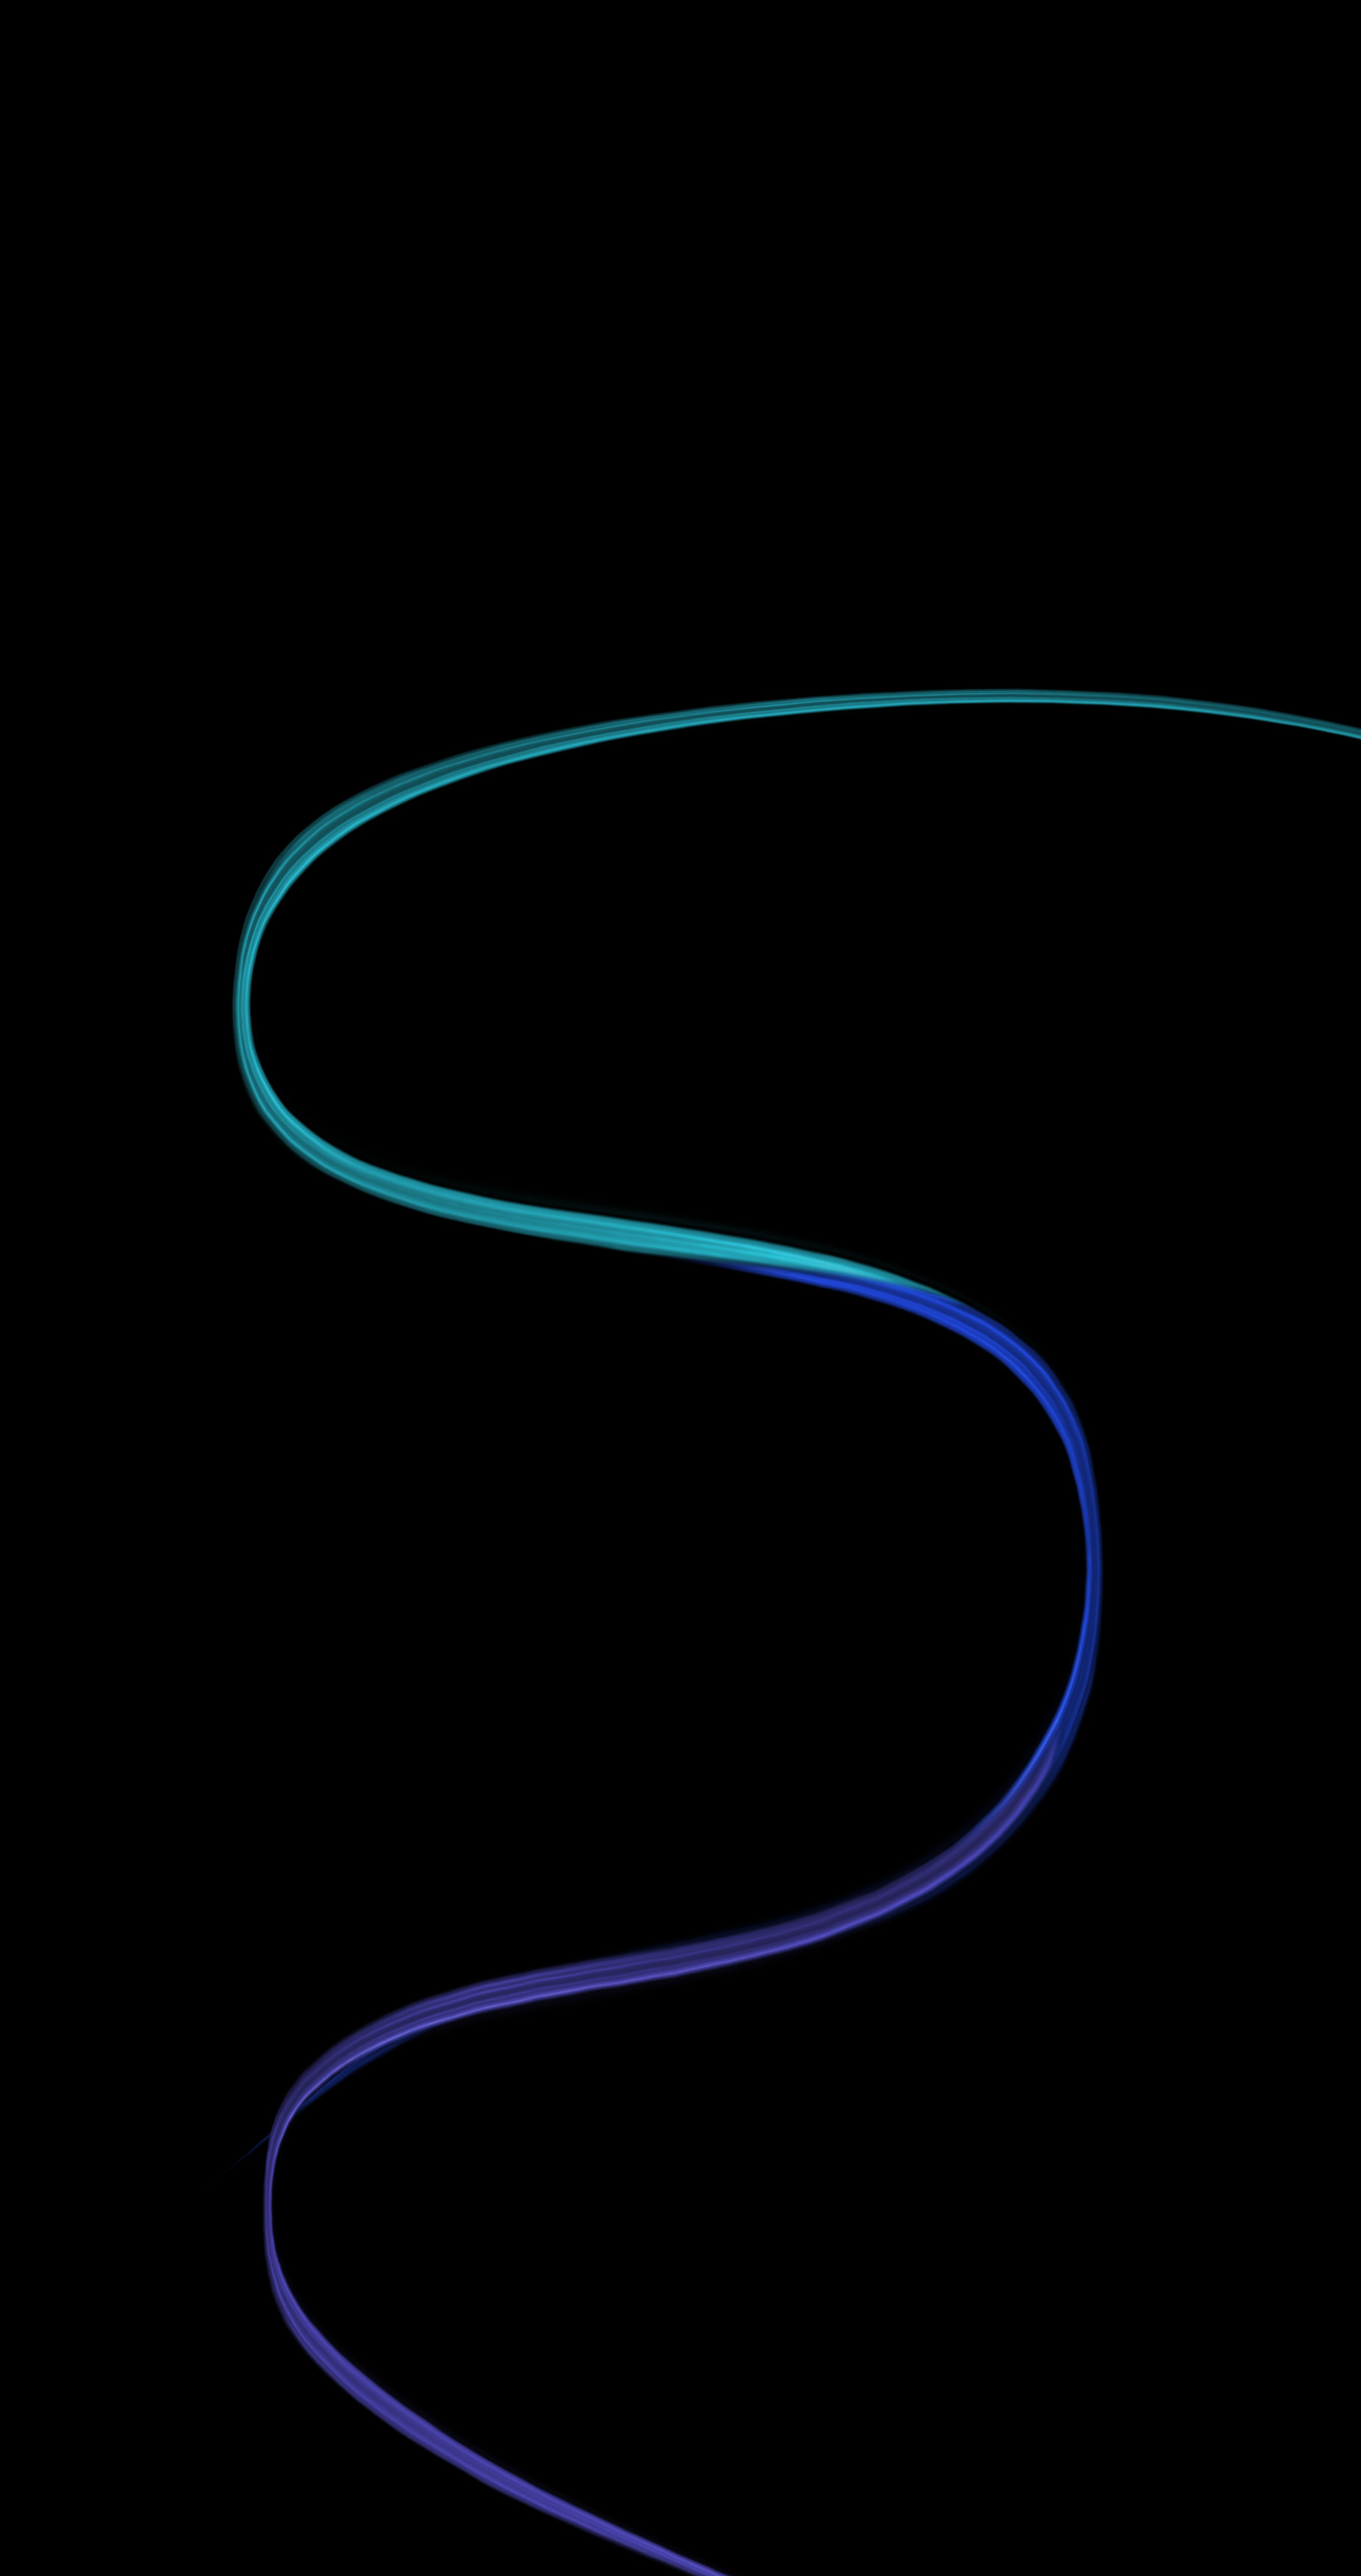
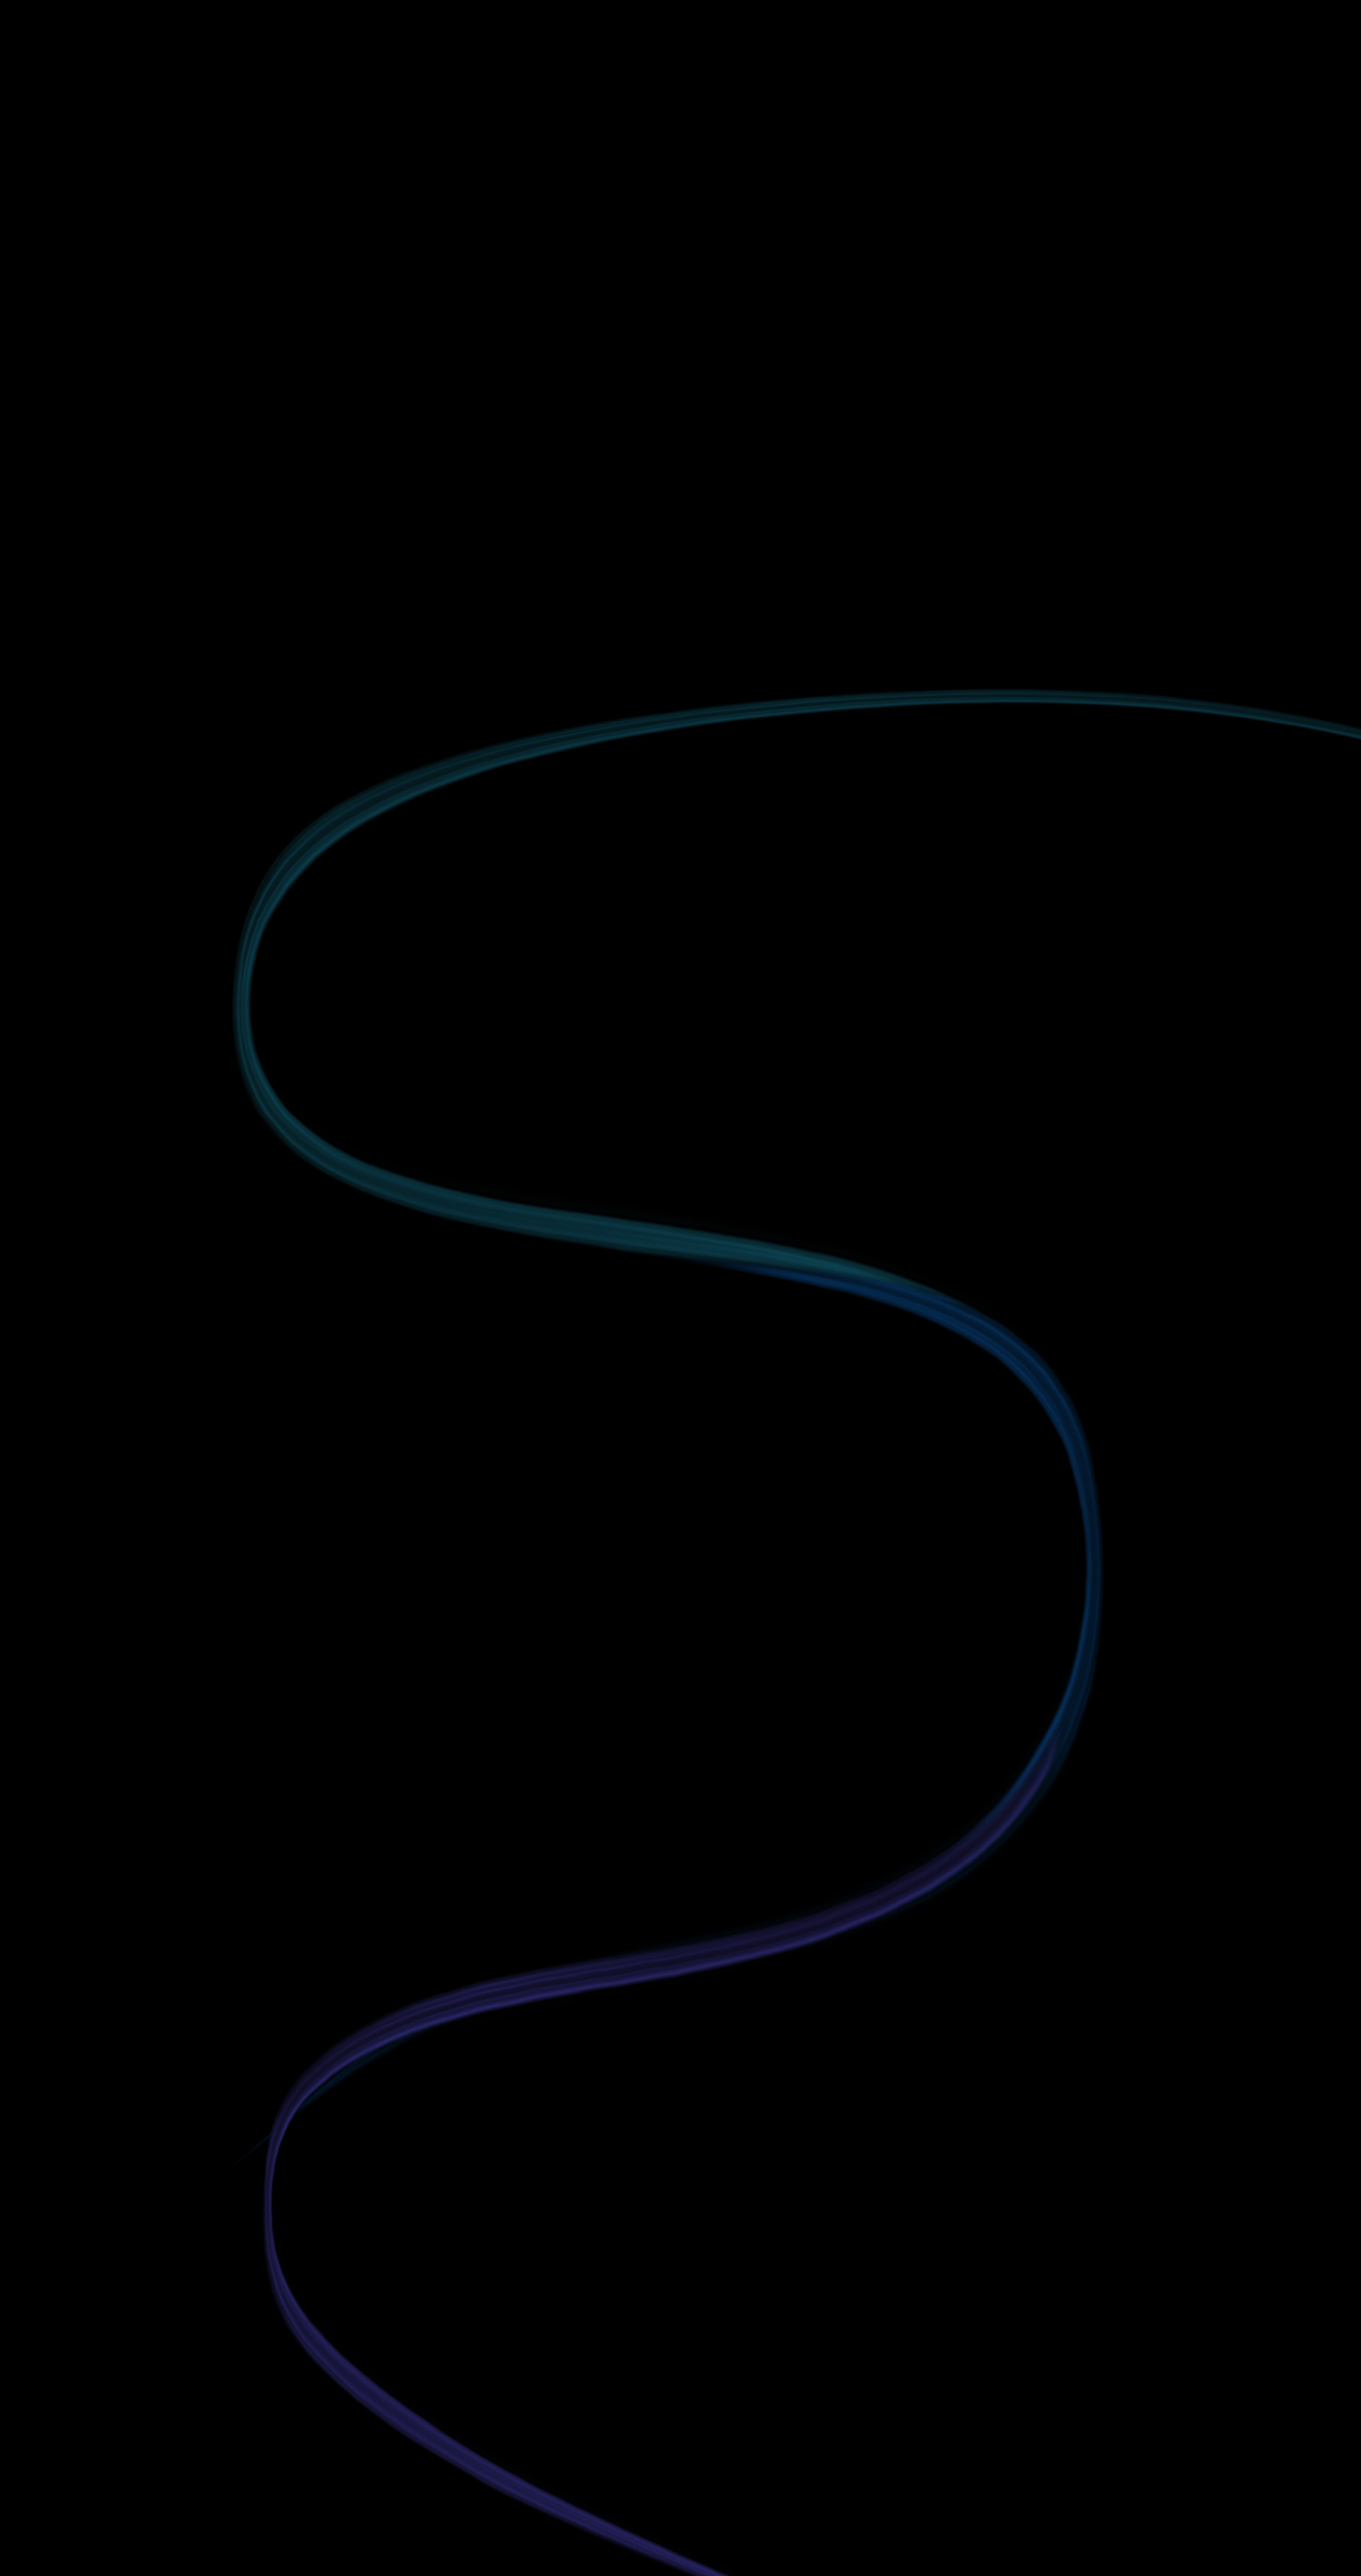
add and update background images for small to xxl viewport sizes

diff --git a/public_html/css/styles.css b/public_html/css/styles.css
@@ -17,7 +17,33 @@ body {
 		background-size: cover;
 	}
 }
+@media (max-width: 1220px) {
+	body {
+		background-image: url("../images/lightwave-l.jpg");
+		background-position: center;
+		background-repeat: no-repeat;
+		background-size: cover;
+	}
+}
 
+@media (max-width: 1014px) {
+	body {
+		background-image: url("../images/lightwave-m.jpg");
+		background-position: center;
+		background-repeat: no-repeat;
+		background-size: cover;
+	}
+}
+
+@media (max-width: 804px) {
+	body {
+		background-image: url("../images/lightwave-s.jpg");
+		background-position: center;
+		background-repeat: no-repeat;
+		background-size: cover;
+	}
+	}
+}
 h1, h2, h3, h4, h5 {
 	font-family: 'Roboto', sans-serif;
 }
